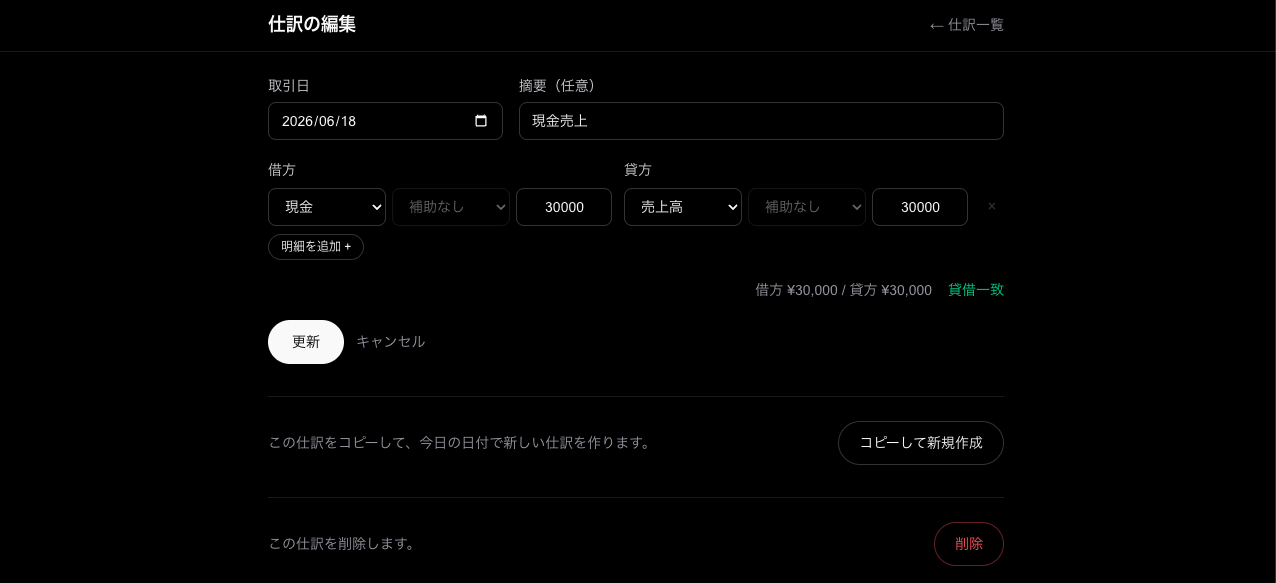
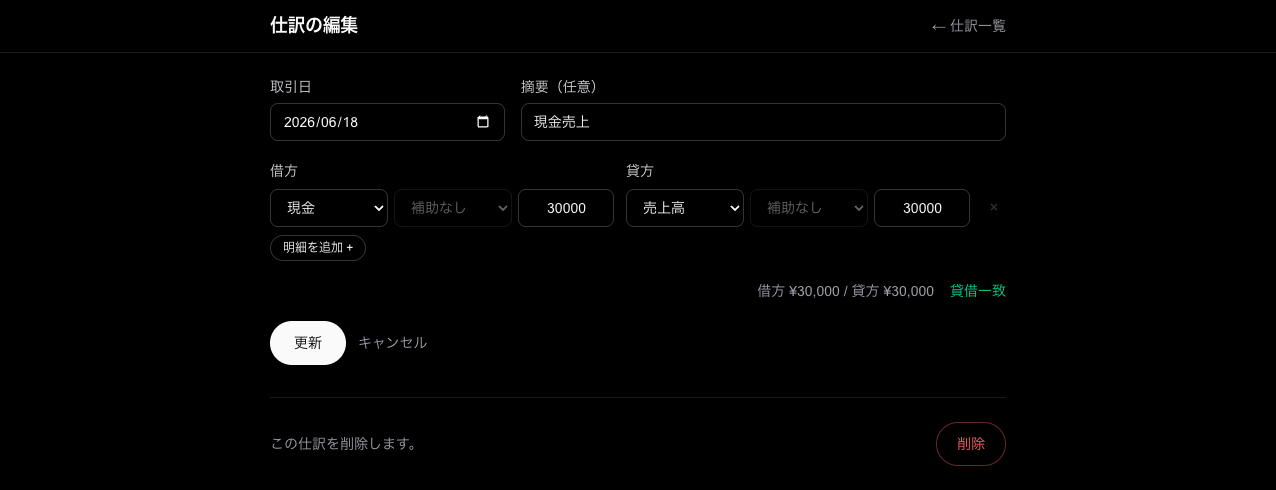
README の仕訳の編集のスクリーンショットを新しい画面に合わせる
編集画面のスクリーンショットを撮り直し、仕訳を開いたときの
見るだけの画面のスクリーンショットを追加する。

diff --git a/README.md b/README.md
@@ -35,6 +35,8 @@
 
 **仕訳の編集** — 仕訳を開くと、まず内容を表示するだけの画面になります（うっかり書き換えないため）。「編集」ボタンで編集画面に移り、内容の修正・削除ができます。「コピーして新規作成」で、その仕訳を雛形に今日の日付の新しい仕訳を作ることもできます。
 
+![仕訳の内容](./docs/screenshot-journal-view.png)
+
 ![仕訳の編集](./docs/screenshot-journal-edit.png)
 
 **総勘定元帳（科目一覧）** — 科目を選んで元帳を表示します。選んだ年の残高を科目別に一覧でき、試算表・損益計算書・貸借対照表への入口にもなっています。
